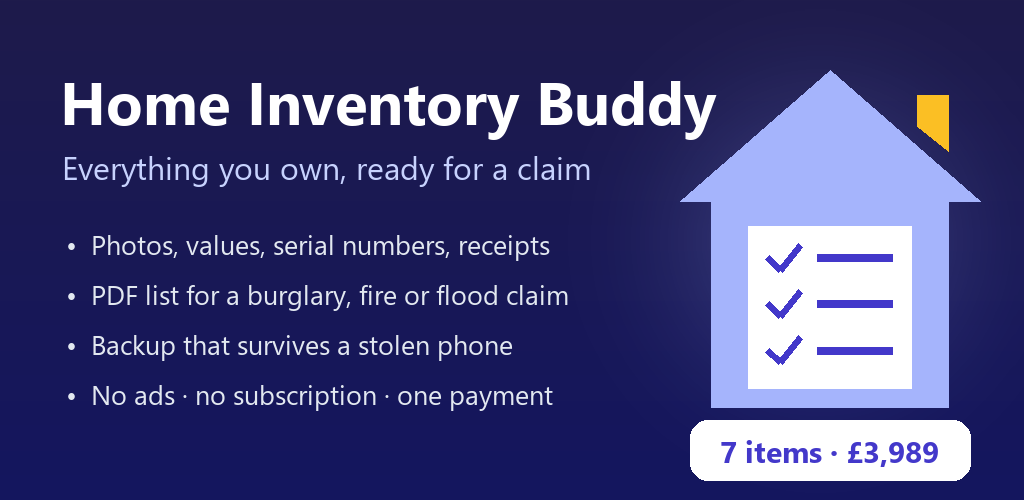
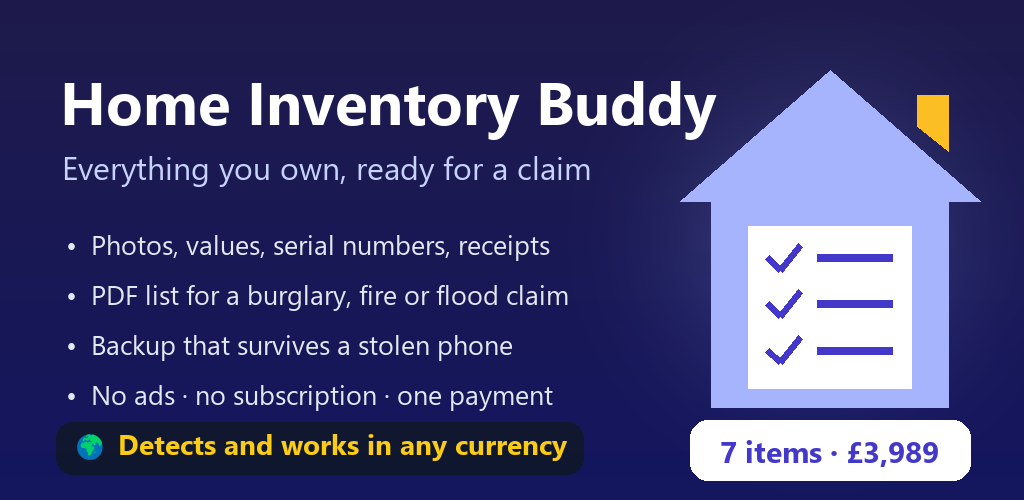
Home Inventory Buddy 1.5 (Build 6): any currency, manual word for word, new pictures

Changed region(s): [[0.0312, 0.84, 0.5938, 0.96]]

diff --git a/home-inventory-buddy/index.html b/home-inventory-buddy/index.html
@@ -74,9 +74,12 @@
         <ul>
             <li>📄 Inventory PDF: every room with a table of totals, then each item with its first photo and details (free).</li>
             <li>🧾 Claim pack (Pro): tick the items you are claiming for, for example everything stolen from the living room. The PDF lists them with their total, then every photo and receipt of each item, large.</li>
-            <li>📊 Spreadsheet (Pro): every item as a CSV file for Excel or Google Sheets.</li>
+            <li>📊 Spreadsheet (Pro): every item as a CSV file for Excel or Google Sheets, with the currency in its own column.</li>
         </ul>
         <p>Your name, address and policy number (✏ Your details) are printed at the top of the PDFs if you enter them. They stay on this phone.</p>
+
+        <h3>🌍 Any currency</h3>
+        <p>Values are in your phone's currency, written the way your phone writes money (for example £1,299.99, 1.299,99 € or ¥150,000). To use another currency, tap Change the currency in 📄 Reports. The app never converts amounts: the numbers you typed stay as they are.</p>
 
         <h3>💾 Backup and restore</h3>
         <p>Your list is kept only on this phone. If the phone is stolen in the same burglary, or breaks, the list goes with it, so keep a backup somewhere else.</p>
@@ -99,15 +102,15 @@
         <p>Google Play handles the Pro purchase.</p>
 
         <h3>About</h3>
-        <p>Home Inventory Buddy v1.4 (Build 5)</p>
+        <p>Home Inventory Buddy v1.5 (Build 6)</p>
         <p>Publisher: AppStack Studio</p>
-
 
         <h3>⚡ WHY HOME INVENTORY BUDDY</h3>
         <table class="rival-table">
             <tr><th>Question</th><th>Many home inventory apps</th><th>Home Inventory Buddy</th></tr>
             <tr><td>Price</td><td>Monthly or yearly subscriptions</td><td><strong>Free for 2 rooms and 25 items; Pro is one payment for life (no subscription)</strong></td></tr>
             <tr><td>Where is my list?</td><td>Often in the app maker's cloud, behind an account</td><td><strong>On your phone, no account; you keep your own backup ZIP wherever you like</strong></td></tr>
+            <tr><td>Currency</td><td>Often one currency only</td><td><strong>Any currency: your phone's, or one you pick, written the way your phone writes money</strong></td></tr>
             <tr><td>Ads?</td><td>Some have ads</td><td><strong>No ads, ever</strong></td></tr>
         </table>
         <ul>
@@ -120,17 +123,18 @@
         <ul>
             <li>Home Inventory Buddy is a list of your belongings. It doesn't sell or arrange insurance and doesn't contact any insurer.</li>
             <li>Values are what you type in. Your insurer decides what a claim pays.</li>
+            <li>Amounts are never converted between currencies: the numbers you type stay as they are.</li>
             <li>The list is only on your phone until you make a backup: keep one somewhere else.</li>
         </ul>
     </div>
     <h2>App Screenshots Gallery</h2>
     <div class="screenshot-grid">
-        <div class="screenshot-card"><img src="home-inventory-buddy-rooms.jpg" alt="Rooms with item counts and values"><p><strong>1. Rooms</strong><br>Every room with its items and value, and a reminder to keep a backup.</p></div>
+        <div class="screenshot-card"><img src="home-inventory-buddy-rooms.jpg" alt="Rooms with item counts and values"><p><strong>1. Rooms</strong><br>Every room with its items and value, here in euros: any currency, never converted.</p></div>
         <div class="screenshot-card"><img src="home-inventory-buddy-room.jpg" alt="Items in the living room with photos"><p><strong>2. A room</strong><br>Each item with its photo, value and warranty.</p></div>
         <div class="screenshot-card"><img src="home-inventory-buddy-item.jpg" alt="One item with its details and photos"><p><strong>3. An item</strong><br>Details, photos and receipts.</p></div>
-        <div class="screenshot-card"><img src="home-inventory-buddy-reports.jpg" alt="Reports: inventory PDF, claim pack, spreadsheet, backup"><p><strong>4. Reports</strong><br>Inventory PDF, claim pack, spreadsheet and backup.</p></div>
+        <div class="screenshot-card"><img src="home-inventory-buddy-reports.jpg" alt="Reports: inventory PDF, claim pack, spreadsheet, backup"><p><strong>4. Reports</strong><br>Inventory PDF, claim pack, spreadsheet, backup and 🌍 currency.</p></div>
     </div>
-    <p style="font-size: 13px; color: #94A3B8;">Screenshots: Home Inventory Buddy 1.0 on a Samsung Galaxy S24, with sample items (photos from Pexels).</p>
+    <p style="font-size: 13px; color: #94A3B8;">Screenshots: Home Inventory Buddy 1.5 on a Samsung Galaxy S24, with sample items (photos from Pexels).</p>
     <div class="footer">
         &copy; 2026 AppStack Studio. All rights reserved. | Support: <a href="mailto:appstack1966@gmail.com">appstack1966@gmail.com</a>
     </div>

diff --git a/home-inventory-buddy/privacy.html b/home-inventory-buddy/privacy.html
@@ -48,7 +48,7 @@
             <h2>Home Inventory Buddy — Privacy Policy</h2>
             <p class="meta">
                 <strong>Package Name:</strong> <code>com.appstackstudio.homeinventorybuddy</code> |
-                <strong>Effective Date:</strong> 20 November 2026 |
+                <strong>Effective Date:</strong> 27 November 2026 |
                 <strong>Developer:</strong> AppStack Studio
             </p>
 
@@ -60,7 +60,7 @@
                 <li><strong>Your inventory:</strong> rooms, and for each item the name, type, value, quantity, make or model, serial number, shop, purchase date, warranty date and notes you type in.</li>
                 <li><strong>Photos and receipts:</strong> the pictures you take or choose for each item, stored as smaller copies (at most 1600 pixels across) in the app's own folder. The date stored in a photo is kept.</li>
                 <li><strong>Your details (optional):</strong> name, address and policy number, only printed on your PDFs.</li>
-                <li><strong>Settings:</strong> warranty reminders on or off, which warranty reminders were already shown, when you last made a backup, whether the welcome guide was shown and whether Pro is unlocked.</li>
+                <li><strong>Settings:</strong> warranty reminders on or off, which warranty reminders were already shown, when you last made a backup, your currency if you chose one, whether the welcome guide was shown and whether Pro is unlocked.</li>
             </ul>
             <p>This information is kept in the app's own storage, which other apps can't read, and it is not included in Android's own backups.</p>
 

diff --git a/home-inventory-buddy/support.html b/home-inventory-buddy/support.html
@@ -52,10 +52,13 @@
             <h3>7. I didn't get a warranty reminder.</h3>
             <p>Check that 🔔 Warranty reminders is on in 📄 Reports (Pro), that notifications are allowed for the app, and that the item has a warranty date. Android runs the check about once a day, not at an exact time; each warranty reminds you once, 30 days before it ends (again if you change its date). If Android blocks the app's notifications, 📄 Reports shows 🔕 Notifications are blocked: tap it to allow them.</p>
 
-            <h3>8. I bought Pro on another phone. How do I get it back?</h3>
+            <h3>8. Can I use another currency?</h3>
+            <p>Yes. Values use your phone's currency, written the way your phone writes money. To use another one, tap Change the currency in 📄 Reports. The app never converts amounts: the numbers you typed stay as they are.</p>
+
+            <h3>9. I bought Pro on another phone. How do I get it back?</h3>
             <p>Use the same Google account, tap GO PRO at the top, then Restore purchase.</p>
 
-            <h3>9. Does Home Inventory Buddy need any permissions?</h3>
+            <h3>10. Does Home Inventory Buddy need any permissions?</h3>
             <p>Only notifications, and only if you switch on warranty reminders. Photos come from your camera app or Android's photo picker, with no camera or storage permission. See the <a href="https://daverimmeruk.github.io/appstack-studio/home-inventory-buddy/privacy.html">Privacy Policy</a>.</p>
         </div>
 
